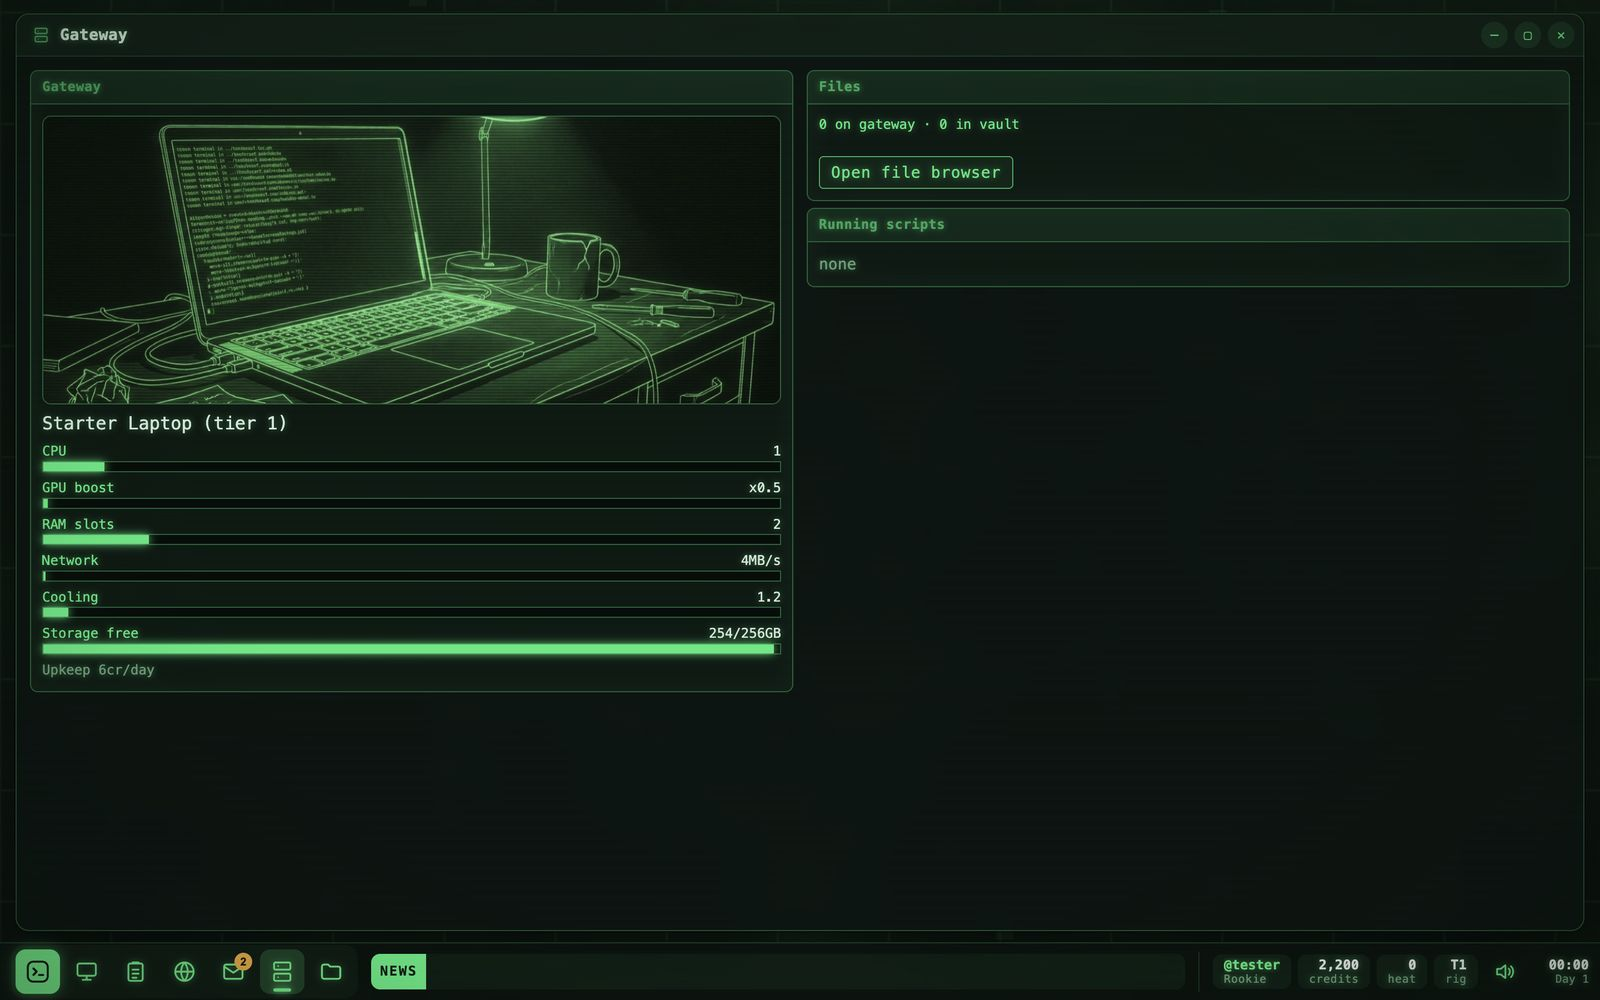
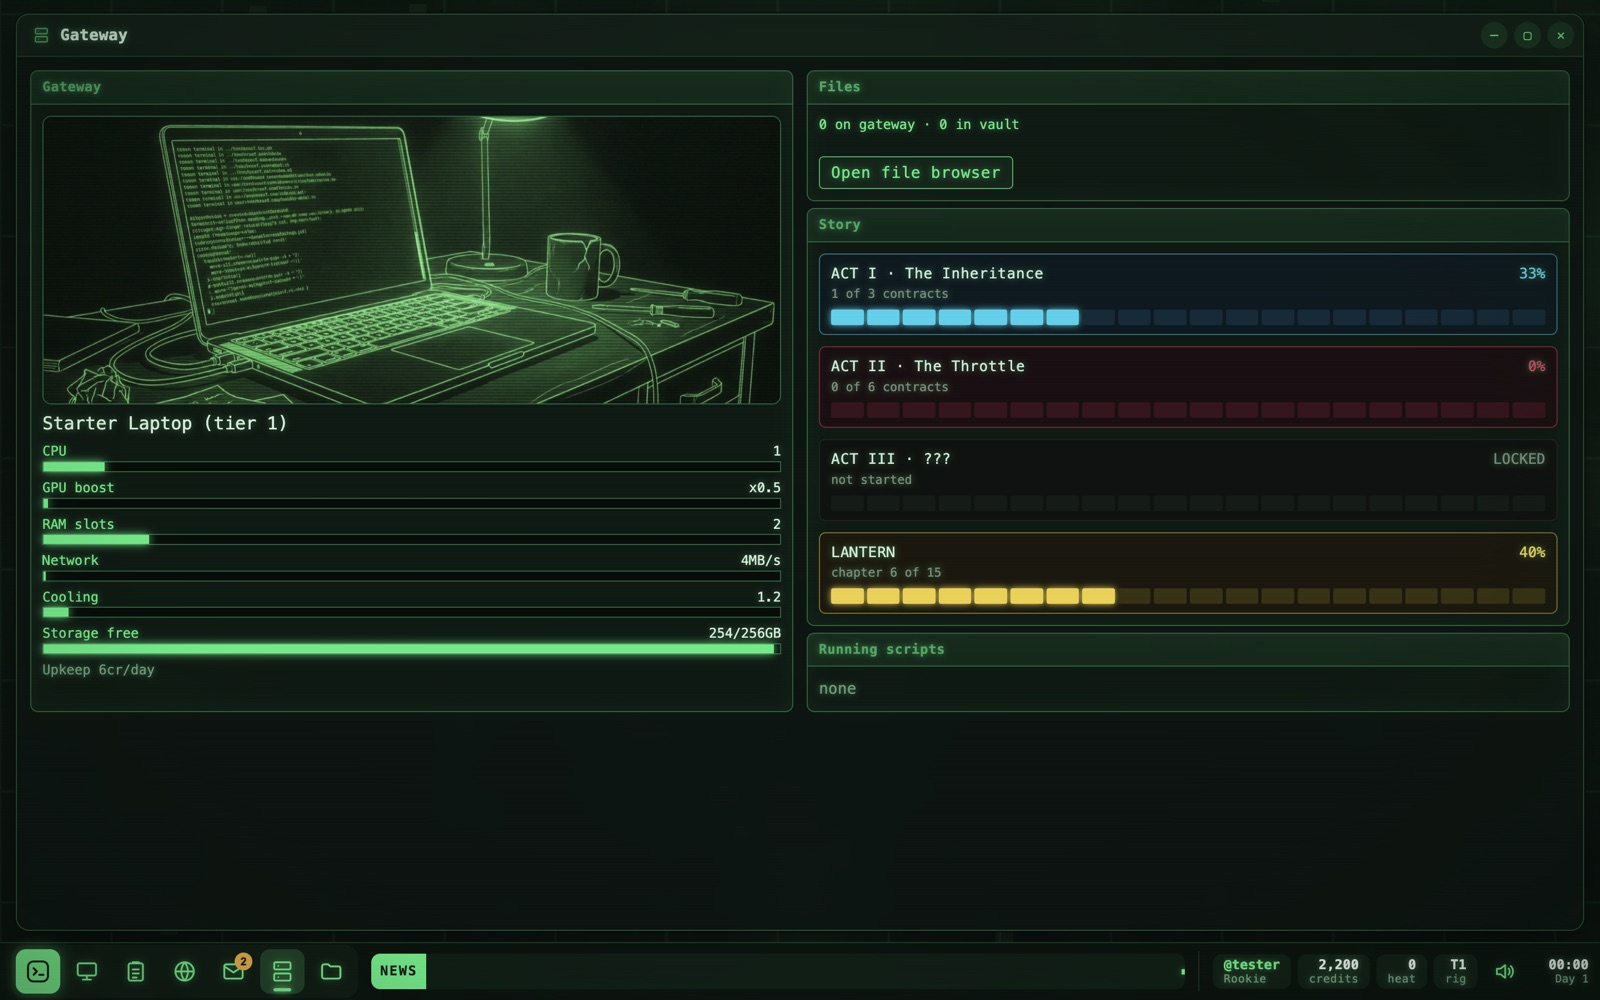
v0.9.0: LANTERN campaign, Terminal, rival voicemail, story cards

diff --git a/README.md b/README.md
@@ -20,7 +20,10 @@ The Meridian consortium rations the world's compute, and you are a freelance **r
 - **Real-feeling intrusions.** Build a bounce chain across a world map, then break firewalls, passwords, IDS, 2FA and encryption in order while a live trace closes in.
 - **GPU-accelerated cracking view.** WebGL shaders drive the CRT glow, scanlines and the cracking display.
 - **A story worth following.** About 25 to 30 story contracts across three acts, with choices that change how it ends. Three endings in all.
-- **LANTERN, a second story for puzzle solvers.** Eight puzzles arrive by mail: ciphers, hidden words, things to count, things to draw. They are built to be solved with a pencil and paper, or with the in-game Notepad and Paint apps.
+- **LANTERN, a second campaign for puzzle solvers.** Fifteen chapters with their own servers, characters and ending. Each clue has to be broken into, stolen, decoded and pieced together, with a pencil and paper or the in-game Notepad and Paint apps.
+- **A command-line Terminal.** Read files with `ls`, `cat`, `grep`, `decode` and `decrypt`, with built-in help for every command.
+- **Rival crews and voicemail.** Top-tier contracts can be contested. Beat a rival crew to a job and they will leave you a voicemail, and if you were sloppy, they may make good on it.
+- **Story progress at a glance.** A Story panel on your Gateway tracks every act and stays free of spoilers until you get there.
 - **A whole desktop OS.** BIOS boot, login screen, taskbar with pinnable apps, start menu with search, mail with an archive, news ticker, file browser, Notepad and Paint.
 - **Hardware to grow into.** Five rig tiers. Upgrade CPU, GPU, RAM, cooling and network, rent a vault, run scripts.
 - **Heat and consequences.** Leaks, Squawk posts and sloppy logs raise your heat. Too much and your rig gets seized.
@@ -55,7 +58,8 @@ Somewhere along the way, a stranger who signs as **LANTERN** starts sending you 
 |---|---|
 | ![Boot](screenshots/boot.jpg) **BIOS boot** | ![Desktop](screenshots/hub.jpg) **Desktop** |
 | ![Contracts](screenshots/board.jpg) **Hearth board: contracts** | ![Connect](screenshots/map.jpg) **Connect: plan your bounce chain** |
-| ![Live link](screenshots/hack.jpg) **Live link: crack the layers** | ![Gateway](screenshots/gateway.jpg) **Gateway: your rig** |
+| ![Live link](screenshots/hack.jpg) **Live link: crack the layers** | ![Gateway](screenshots/gateway.jpg) **Gateway: your rig and story progress** |
+| ![Terminal](screenshots/terminal.jpg) **Terminal, with help and autosuggest** | ![Voicemail](screenshots/voicemail.jpg) **Voicemail from rival crews** |
 | ![Mail](screenshots/mail.jpg) **Mail, with inbox and archive** | ![Shop](screenshots/shop.jpg) **Shop: upgrade your rig** |
 | ![News](screenshots/news.jpg) **NewsGrid: the world reacts** | ![Act card](screenshots/act.jpg) **Act II: The Throttle** |
 
